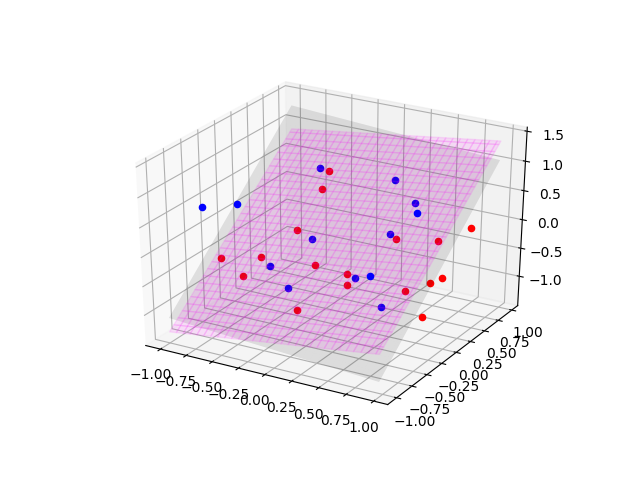
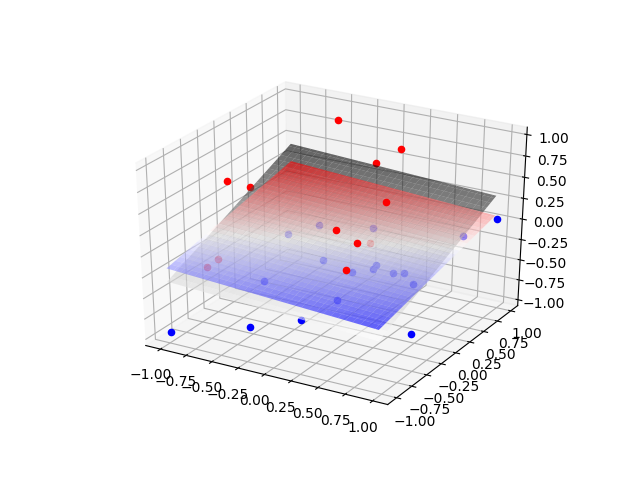
3D now uses colormaps! Weight plot has better labels.

diff --git a/visualize.py b/visualize.py
@@ -9,6 +9,7 @@ import numpy as np
 import pandas as pd
 from matplotlib import pyplot as plt
 from mpl_toolkits.mplot3d import axes3d
+from matplotlib import cm
 from pandas.plotting import parallel_coordinates
 
 
@@ -100,8 +101,8 @@ class Visualize(object):
             :return: None.
             """
             # Label and title the plot.
-            plt.xlabel('Dimension (x_0 represents bias)')
-            plt.title('Decision Boundary vs. Current Weight Vector')
+            plt.xlabel('Coefficient for X term')
+            plt.title('Decision Boundary (black) and Current Weight Vector (blue)')
 
             # Prepare weight-vectors as a data-frame. Find the X coefficients of the equation:
             # x_m = (x_0 + x_1 * w_1 + x_2 * w_2 + ...) / w_m
@@ -182,7 +183,7 @@ class Visualize(object):
         xx, yy = np.meshgrid(np.arange(-scale, scale, scale / 30),
                              np.arange(-scale, scale, scale / 30))
         w_zz = -w[1] / w[3] * xx + -w[2] / w[3] * yy - w[0] / w[3]
-        w_plane = ax.plot_surface(xx, yy, w_zz, color='m', alpha='0.1')
+        w_plane = ax.plot_surface(xx, yy, w_zz, cmap=cm.seismic, alpha=0.6)
 
         # Circle the focus point if defined.
         if focus is not None:
@@ -192,12 +193,12 @@ class Visualize(object):
         if w_star is not None:
             w_star_zz = -w_star[1] / w_star[3] * xx + -w_star[2] / w_star[3] * yy - w_star[0] / \
                                                                                     w_star[3]
-            ax.plot_surface(xx, yy, w_star_zz, color='k', alpha='0.1')
+            ax.plot_surface(xx, yy, w_star_zz, cmap=cm.binary, alpha=0.6)
 
         # We flash the plane red, blue, and magenta if specified.
         for f in range(flash_w):
-            plot_and_pause = lambda c: w_plane.set_color(c) and plt.pause(0.1)
-            [plot_and_pause(a) for a in ["red", "blue", "magenta"]]
+            plot_and_pause = lambda c: w_plane.set_cmap(c) or plt.pause(0.1)
+            [plot_and_pause(a) for a in ["bwr", "seismic"]]
 
         # Dynamic mode must be toggled off to call show.
         show and not dynamic and plt.show()
